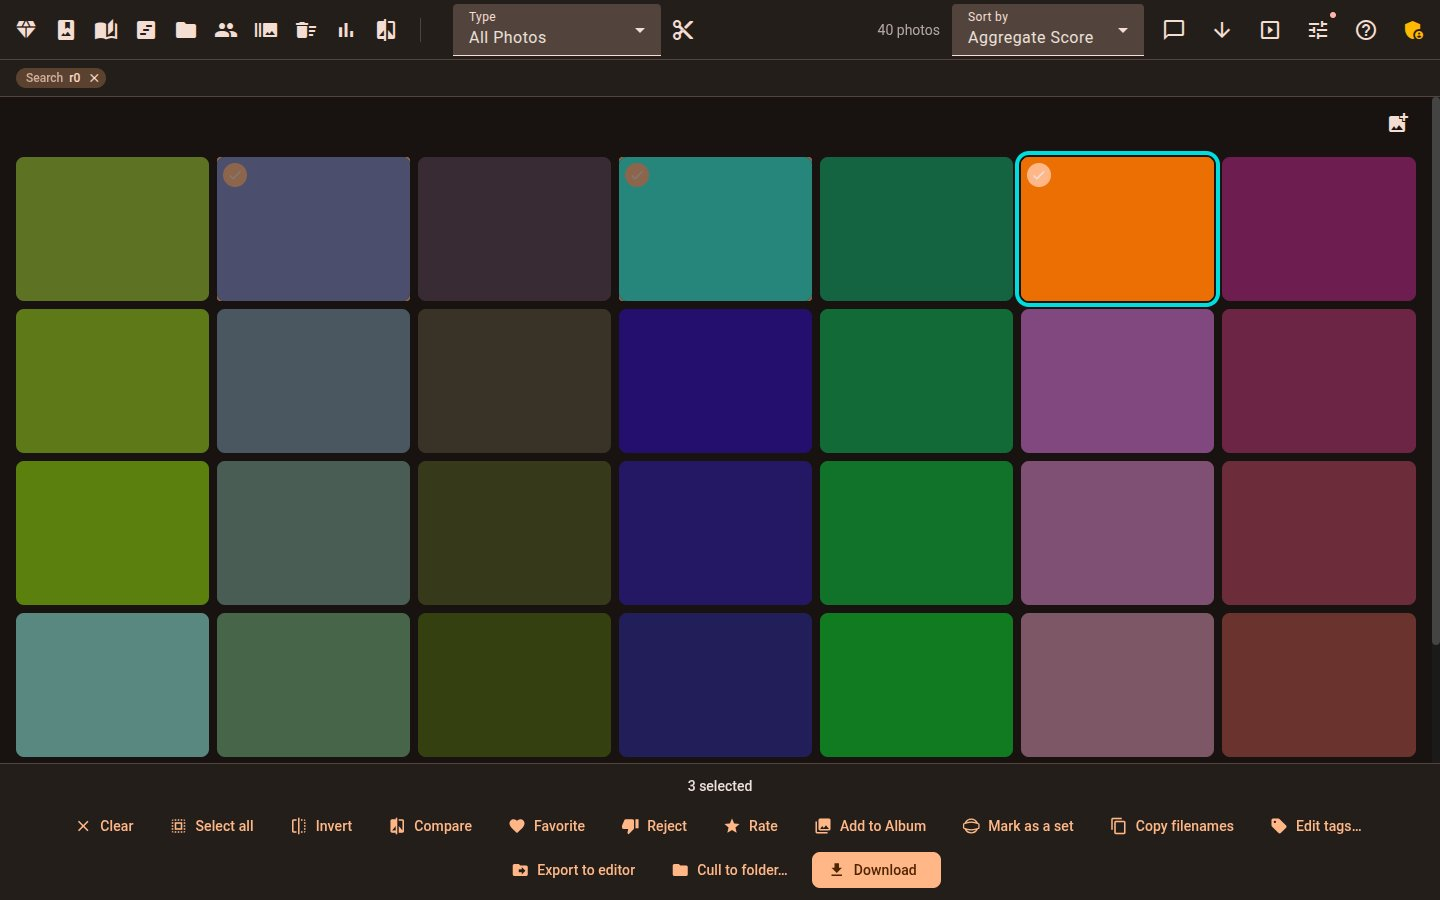
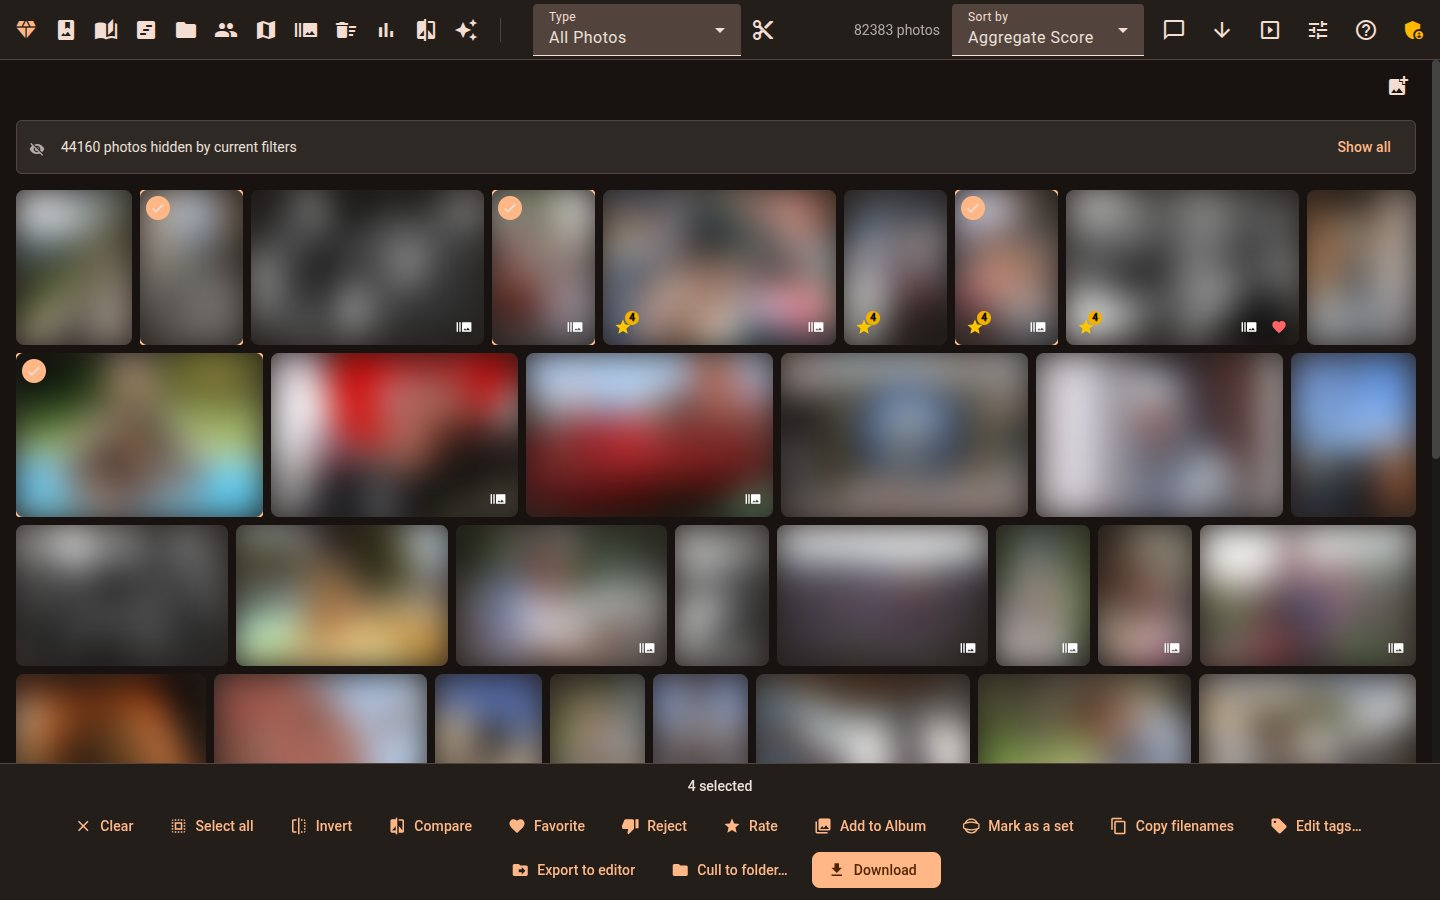
docs: retake the getting-started screenshots on a real library
The first screenshots came from the test harness, whose photos are flat
colour fills, so the gallery, comparison and selection shots showed
coloured blocks instead of what a user will see.

They are now taken on a real library with every photo blurred, so the
interface reads as it does in use without exposing the pictures. The
export shot shows Editor Export rather than an album export, and the
manual-tags shot is the detail view's Tags section, so both captions
now say so in all seven languages.

diff --git a/docs/de/GETTING_STARTED.md b/docs/de/GETTING_STARTED.md
@@ -138,7 +138,7 @@ bereits geschrieben hat. Siehe [Manuelle Tags](VIEWER.md#manuelle-tags) und
 und Stichwörter nach Lightroom, Capture One, digiKam oder darktable mitzunehmen, siehe [Interop](INTEROP.md)
 (dafür wird zum Einbetten [exiftool](INSTALLATION.md#exiftool) benötigt).
 
-![Dialog für manuelle Tags](../screenshots/getting-started-manual-tags.jpg)
+![Manuelle Tags in der Detailansicht](../screenshots/getting-started-manual-tags.jpg)
 
 ### Schritt 6: Die kuratierte Auswahl exportieren
 
@@ -148,7 +148,7 @@ den [Editor-Export](VIEWER.md#editor-export) für die Übergabe an einen Editor,
 dieselbe Positivliste für Ziele wie in Schritt 4
 ([Ziele für Export und Aussortierung](CONFIGURATION.md#ziele-für-export-und-aussortierung)).
 
-![Ein Album exportieren](../screenshots/getting-started-export.jpg)
+![Export an einen Editor](../screenshots/getting-started-export.jpg)
 
 ## Wie es weitergeht
 

diff --git a/docs/pt/GETTING_STARTED.md b/docs/pt/GETTING_STARTED.md
@@ -134,7 +134,7 @@ dos sidecars que o Facet já gravou. Veja [Tags manuais](VIEWER.md#tags-manuais)
 e palavras-chave para o Lightroom, Capture One, digiKam ou darktable, veja [Interoperabilidade](INTEROP.md)
 (isso exige o [exiftool](INSTALLATION.md#exiftool) para a incorporação).
 
-![Diálogo de tags manuais](../screenshots/getting-started-manual-tags.jpg)
+![Tags manuais na vista de detalhe](../screenshots/getting-started-manual-tags.jpg)
 
 ### Etapa 6: Exportar o conjunto selecionado
 
@@ -144,7 +144,7 @@ Coloque suas escolhidas em um álbum e exporte a partir dele, ou use a
 mesma lista de permissão de destinos da etapa 4 se aplica
 ([Destinos de exportação e seleção](CONFIGURATION.md#destinos-de-exportação-e-seleção)).
 
-![Exportando um álbum](../screenshots/getting-started-export.jpg)
+![Exportar para um editor](../screenshots/getting-started-export.jpg)
 
 ## Para onde ir depois
 

diff --git a/docs/fr/GETTING_STARTED.md b/docs/fr/GETTING_STARTED.md
@@ -137,7 +137,7 @@ Facet a déjà écrits. Voir [Tags manuels](VIEWER.md#tags-manuels) et
 et mots-clés vers Lightroom, Capture One, digiKam ou darktable, voir [Interopérabilité](INTEROP.md)
 (cela nécessite [exiftool](INSTALLATION.md#exiftool) pour l'intégration).
 
-![Manual tags dialog](../screenshots/getting-started-manual-tags.jpg)
+![Tags manuels dans la vue détaillée](../screenshots/getting-started-manual-tags.jpg)
 
 ### Étape 6 : exporter l'ensemble trié
 
@@ -147,7 +147,7 @@ Placez vos photos retenues dans un album et exportez depuis celui-ci, ou utilise
 même liste d'autorisation de destinations qu'à l'étape 4 s'applique
 ([Destinations d'export et de tri](CONFIGURATION.md#destinations-dexport-et-de-tri)).
 
-![Exporting an album](../screenshots/getting-started-export.jpg)
+![Export vers un éditeur](../screenshots/getting-started-export.jpg)
 
 ## Et ensuite
 

diff --git a/docs/es/GETTING_STARTED.md b/docs/es/GETTING_STARTED.md
@@ -134,7 +134,7 @@ de los sidecars que Facet ya escribió. Consulta [Tags manuales](VIEWER.md#tags-
 y palabras clave a Lightroom, Capture One, digiKam o darktable, consulta [Interoperabilidad](INTEROP.md)
 (esto necesita [exiftool](INSTALLATION.md#exiftool) para incrustar).
 
-![Diálogo de tags manuales](../screenshots/getting-started-manual-tags.jpg)
+![Tags manuales en la vista de detalle](../screenshots/getting-started-manual-tags.jpg)
 
 ### Paso 6: Exportar la selección curada
 
@@ -144,7 +144,7 @@ Pon tus elegidas en un álbum y exporta desde allí, o usa
 misma lista de destinos permitidos que en el paso 4
 ([Destinos de exportación y descarte](CONFIGURATION.md#destinos-de-exportación-y-descarte)).
 
-![Exportar un álbum](../screenshots/getting-started-export.jpg)
+![Exportar a un editor](../screenshots/getting-started-export.jpg)
 
 ## Siguientes pasos
 

diff --git a/docs/it/GETTING_STARTED.md b/docs/it/GETTING_STARTED.md
@@ -136,7 +136,7 @@ scritto. Vedi [Tag manuali](VIEWER.md#tag-manuali) e
 e parole chiave in Lightroom, Capture One, digiKam o darktable, vedi [Interoperabilità](INTEROP.md)
 (serve [exiftool](INSTALLATION.md#exiftool) per l'incorporamento).
 
-![Finestra dei tag manuali](../screenshots/getting-started-manual-tags.jpg)
+![Tag manuali nella vista di dettaglio](../screenshots/getting-started-manual-tags.jpg)
 
 ### Passaggio 6: esportare l'insieme curato
 
@@ -146,7 +146,7 @@ Metti le foto tenute in un album ed esporta da lì, oppure usa
 stessa lista consentita di destinazioni del passaggio 4
 ([Destinazioni di esportazione e scarto](CONFIGURATION.md#destinazioni-di-esportazione-e-scarto)).
 
-![Esportazione di un album](../screenshots/getting-started-export.jpg)
+![Esportazione verso un editor](../screenshots/getting-started-export.jpg)
 
 ## Come proseguire
 

diff --git a/docs/GETTING_STARTED.md b/docs/GETTING_STARTED.md
@@ -130,7 +130,7 @@ from sidecars Facet already wrote. See [Manual tags](VIEWER.md#manual-tags) and
 and keywords into Lightroom, Capture One, digiKam or darktable, see [Interop](INTEROP.md)
 (this needs [exiftool](INSTALLATION.md#exiftool) for embedding).
 
-![Manual tags dialog](screenshots/getting-started-manual-tags.jpg)
+![Manual tags in the photo detail view](screenshots/getting-started-manual-tags.jpg)
 
 ### Step 6: Export the curated set
 
@@ -140,7 +140,7 @@ Put your keepers in an album and export from there, or use
 same destination allow-list as in step 4 applies
 ([Export and cull destinations](CONFIGURATION.md#export-and-cull-destinations)).
 
-![Exporting an album](screenshots/getting-started-export.jpg)
+![Exporting to an editor](screenshots/getting-started-export.jpg)
 
 ## Where next
 
